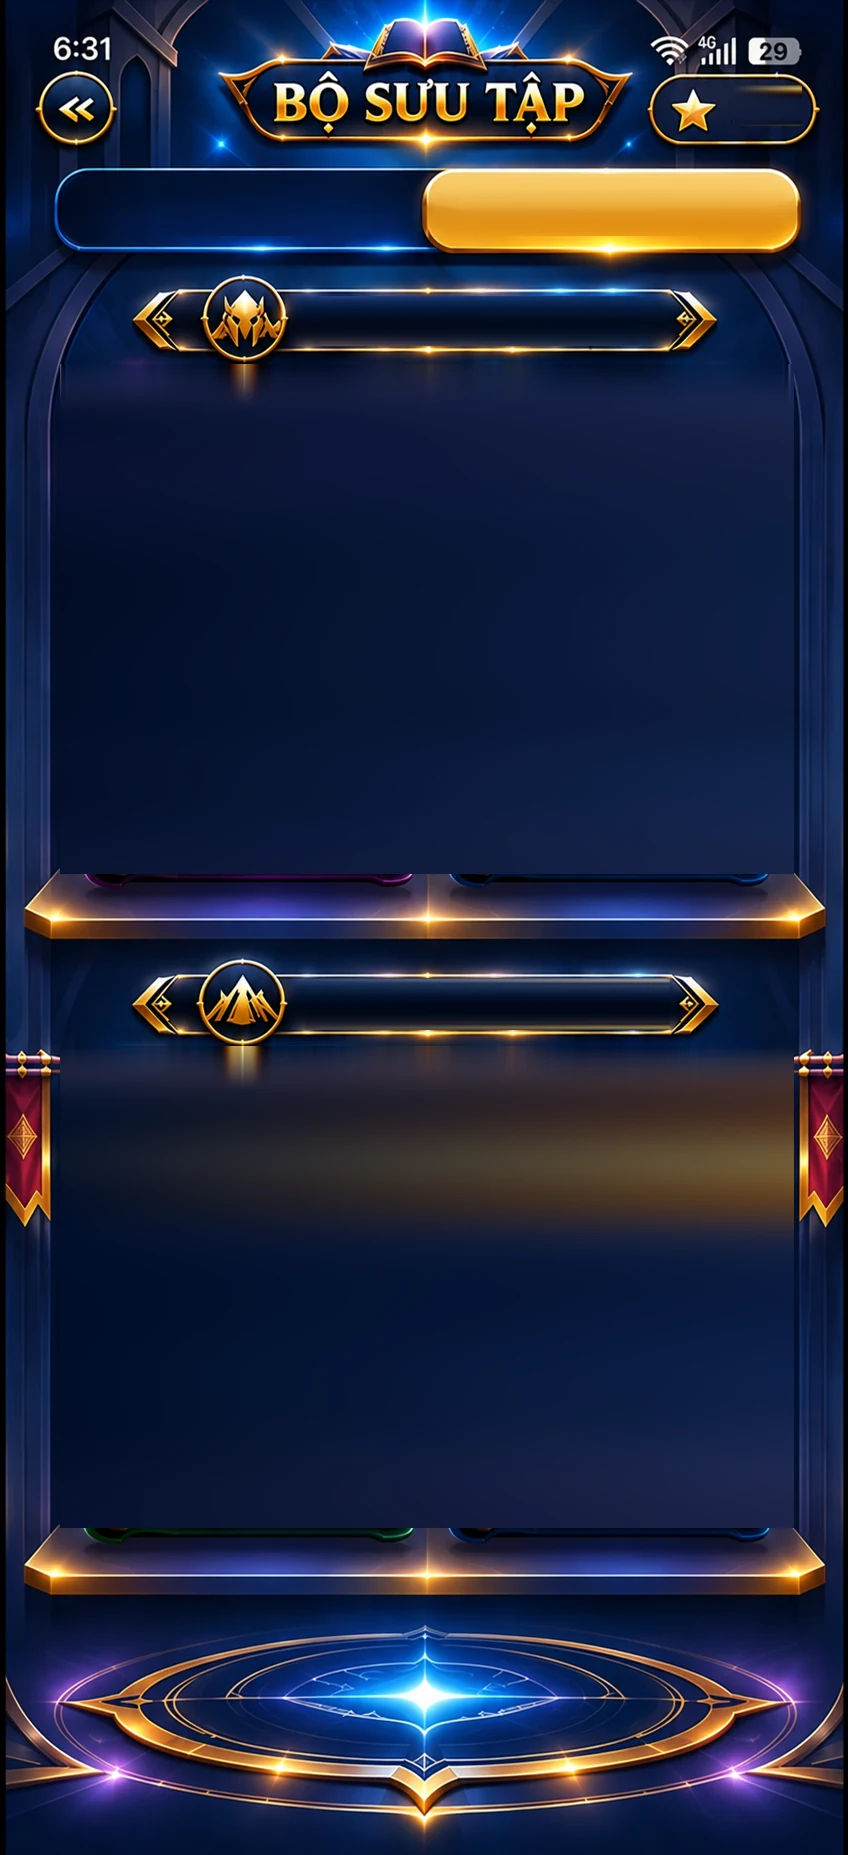
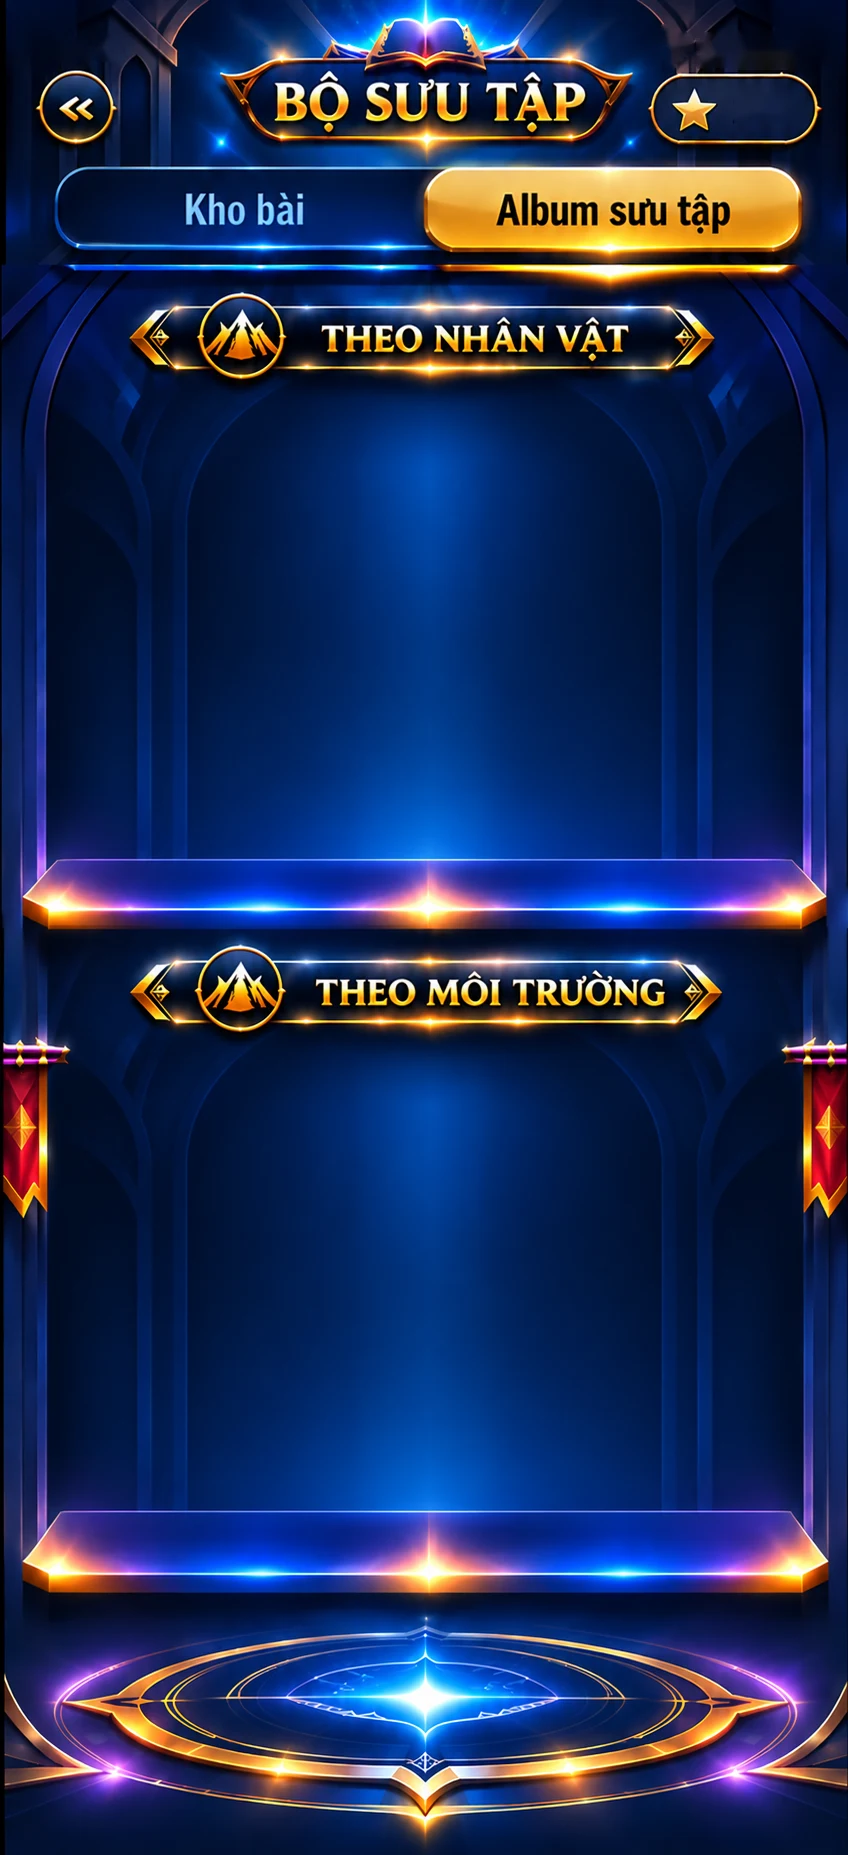
Bộ sưu tập: nền + sách mới, màn thấp, toàn màn hình, sửa hiệu ứng mở album, làm lại bên trong album
Claude-Session: https://claude.ai/code/session_01XgSG6cAiUtzcA5zv4TXjhN

diff --git a/src/styles.css b/src/styles.css
@@ -13263,7 +13263,16 @@ img, video, canvas, svg { -webkit-user-drag: none; user-drag: none; }
 
 /* ── Bộ sưu tập, giao diện mới (chủ game 08/11): cả trang là ảnh (nền, nút tròn, khung, sách) cắt từ bản thiết kế 848×1855;
    chữ và số do code vẽ lên đúng chỗ. Mọi toạ độ = % của trang, cỡ chữ = cqw. ── */
-.cx { container-type: inline-size; --cx-gold: #ffe7a3; }
+/* The page keeps the shape of the picture (848×1855) on any phone: a short screen shrinks the whole page, with the dark fill beside it. */
+.cx-fill { position: fixed; inset: 0; z-index: 0; background: #05071c; }
+.cx {
+  --cw: min(100vw, calc(100dvh * 848 / 1855));
+  inset: auto; left: calc((100vw - var(--cw)) / 2); top: calc((100dvh - var(--cw) * 1855 / 848) / 2);
+  width: var(--cw); height: calc(var(--cw) * 1855 / 848);
+  container-type: inline-size; --cx-gold: #ffe7a3;
+}
+.cx.is-album .cx-tabs button, .cx.is-album .cx-tabs button.on { color: transparent; text-shadow: none; }
+.cx.is-album .cx-wallet { top: 4.7%; }
 .cx.is-vault { background: url("/ui/col/bg-vault.webp") 0 0 / 100% 100% no-repeat, #05071c; }
 .cx.is-album { background: url("/ui/col/bg-album.webp") 0 0 / 100% 100% no-repeat, #05071c; }
 .cx-back { position: absolute; left: 4.4%; top: 3.3%; width: 9%; height: 4.2%; border-radius: 50%; }
@@ -13313,42 +13322,20 @@ img, video, canvas, svg { -webkit-user-drag: none; user-drag: none; }
 .cx .cv-tag { left: -0.4cqw; top: -0.9cqw; width: 9.2cqw; min-width: 0; height: 3.8cqw; padding: 0 0 0 1.5cqw; display: flex; align-items: center; font-size: 3.2cqw; }
 /* Album: các cuốn sách nằm trên kệ, cuộn ngang liên tục */
 .cx .al-shelf { position: absolute; inset: 0; padding: 0; overflow: visible; pointer-events: none; }
-.al-banner {
-  position: absolute; left: 32.9%; width: 47.2%; top: 15.42%; height: 3.88%; margin: 0;
-  display: flex; align-items: center; justify-content: center;
-  font: 700 3.9cqw / 1 "Cinzel", "Trajan Pro", "Times New Roman", serif; letter-spacing: 0.03em; text-transform: uppercase; color: var(--cx-gold);
-  text-shadow: 0 0.2cqw 0.4cqw rgba(0, 0, 0, 0.9), 0 0 1.2cqw rgba(255, 190, 70, 0.45);
-}
-.al-part.is-env .al-banner { left: 33.8%; top: 52.08%; }
+.al-banner { display: none; }
 .al-row {
-  position: absolute; left: 0; right: 0; top: 20.5%; height: calc(100cqw * 498 / 848);
+  position: absolute; left: 0; right: 0; top: 19.14%; height: calc(100cqw * 560 / 848);
   display: flex; align-items: flex-start; padding: 0 7.7cqw; overflow-x: auto; overflow-y: hidden; scrollbar-width: none; pointer-events: auto;
   overscroll-behavior-x: contain; -webkit-overflow-scrolling: touch;
 }
 .al-row::-webkit-scrollbar { display: none; }
-.al-part.is-env .al-row { top: 55.8%; }
-.cx .al-item { position: relative; flex: none; width: calc(100cqw * 366 / 848); margin-right: calc(100cqw * -3 / 848); padding: 0; gap: 0; display: block; }
+.al-part.is-env .al-row { top: 54.3%; }
+.cx .al-item { position: relative; flex: none; width: calc(100cqw * 350 / 848); padding: 0; gap: 0; display: block; opacity: var(--edge, 1); }
 .cx .al-item:active .al-cover { transform: none; }
-.cx .al-cover.is-book { width: 100%; aspect-ratio: 366 / 498; border-radius: 3cqw; background: none; box-shadow: none; transition: none; }
+.cx .al-cover.is-book { width: 100%; aspect-ratio: 400 / 640; border-radius: 0; background: none; box-shadow: none; }
 .cx .al-cover.is-book::before, .cx .al-cover.is-book::after { content: none; }
-.cx .al-cover.is-book.is-done { background: none; box-shadow: 0 0 5cqw rgba(255, 200, 80, 0.45); }
-.cx .al-cover-art {
-  position: absolute; inset: auto; left: 6.83%; top: 6.83%; width: 84.97%; height: 84.74%; border-radius: 0; box-shadow: none;
-  background: #0b0f1c center 30% / cover no-repeat;
-  -webkit-mask: url("/ui/col/book-win.webp") center / 100% 100% no-repeat; mask: url("/ui/col/book-win.webp") center / 100% 100% no-repeat;
-}
-.al-cover-plaque {
-  position: absolute; left: 24.04%; top: 70.28%; width: 67.76%; height: 12.85%;
-  background: linear-gradient(180deg, rgba(8, 16, 38, 0.86), rgba(3, 8, 22, 0.92));
-  clip-path: polygon(0 50%, 12.9% 0, 87.1% 0, 100% 50%, 87.1% 100%, 12.9% 100%);
-}
-.al-cover-book { position: absolute; inset: 0; width: 100%; height: 100%; mix-blend-mode: plus-lighter; pointer-events: none; }
-.al-cover-name {
-  position: absolute; left: 24.04%; top: 70.28%; width: 67.76%; height: 12.85%;
-  display: flex; align-items: center; justify-content: center; text-align: center; line-height: 1;
-  font: 700 var(--nm, 4.2cqw) / 1 "Be Vietnam Pro", system-ui, sans-serif; color: var(--cx-gold);
-  text-shadow: 0 0.2cqw 0.5cqw rgba(0, 0, 0, 0.9), 0 0 1cqw rgba(255, 190, 70, 0.4);
-}
+.cx .al-cover.is-book.is-done { background: none; box-shadow: none; filter: drop-shadow(0 0 2.6cqw rgba(255, 200, 80, 0.55)); }
+.al-cover-book { position: absolute; inset: 0; width: 100%; height: 100%; pointer-events: none; }
 .cx .al-new { right: 3%; top: 3%; width: 6cqw; height: 6cqw; font-size: 4cqw; box-shadow: 0 0 0 0.35cqw #fff, 0 0 2cqw rgba(255, 40, 40, 0.85); }
 .al-prog {
   position: absolute; left: 12%; width: 76%; bottom: 0.8%; height: 8.4%; display: flex; align-items: center; gap: 2.2%; padding: 0 5%;
@@ -13362,3 +13349,48 @@ img, video, canvas, svg { -webkit-user-drag: none; user-drag: none; }
 .al-prog u i { display: block; height: 100%; border-radius: inherit; background: linear-gradient(180deg, #ffe27a, #f3a31b); }
 .al-prog.is-done b { color: var(--cx-gold); }
 .al-item.is-soon { cursor: default; }
+
+/* ── Bên trong album (chủ game 08/11, theo ảnh album Yugi): nền xanh đậm, trang giấy da, lá khung vàng + bảng No.xxx, nút lật tròn viền vàng ── */
+.al-view::before {
+  background:
+    radial-gradient(100% 55% at 50% 38%, #12224f 0%, #0a1331 55%, #050a1c 100%);
+}
+.al-view .al-head h2 { font-family: "Cinzel", "Trajan Pro", "Times New Roman", serif; font-size: 1.7rem; letter-spacing: 0.02em; color: #ffd978; text-shadow: 0 0 0.7rem rgba(255, 190, 70, 0.4), 0 2px 5px rgba(0, 0, 0, 0.9); position: relative; padding-bottom: 0.35rem; }
+.al-view .al-head h2::after { content: ""; position: absolute; left: 0; bottom: 0; width: 7.5rem; height: 2px; background: linear-gradient(90deg, transparent, #f1c25a 20%, #ffe9a6 50%, #f1c25a 80%, transparent); border-radius: 2px; }
+.al-view .cv-back {
+  width: 2.9rem; height: 2.9rem; flex: none; border-radius: 50%; padding: 0; border: 0.14rem solid #e7b84e; color: #ffd978; font-weight: 800;
+  background: radial-gradient(circle at 40% 30%, #1d3270, #0a1536 75%); box-shadow: 0 0 0.9rem rgba(255, 190, 70, 0.45), inset 0 0 0.5rem rgba(0, 0, 0, 0.6);
+}
+.al-view .al-tally {
+  display: inline-flex; align-items: center; gap: 0.5rem; padding: 0.38rem 1.1rem; border-radius: 999px; border: 0.12rem solid #e7b84e;
+  background: linear-gradient(180deg, #0d1a45, #060d26); color: #fff; font: 800 1.15rem / 1 "Roboto", system-ui, sans-serif;
+  box-shadow: 0 0 0.8rem rgba(255, 190, 70, 0.35), inset 0 0 0.5rem rgba(0, 0, 0, 0.6);
+}
+.al-view .al-tally.is-done { color: #ffe9a6; }
+.al-view .al-tally svg { width: 1.15rem; height: 1.15rem; color: #e8f0ff; }
+.al-view .al-page {
+  border-radius: 1.2cqw 1.6cqw 1.6cqw 1.2cqw;
+  background:
+    radial-gradient(120% 90% at 50% 40%, rgba(255, 244, 214, 0.35), rgba(120, 80, 30, 0.22) 100%),
+    linear-gradient(165deg, #dcc08e 0%, #cfae78 55%, #bf9a62 100%);
+  box-shadow: 0 0 0 0.55cqw #4a3a22, 1.2cqw 0 0 0.55cqw #14234f, 1.2cqw 0 0 0.9cqw #c79b3c, 0 2.4cqw 6cqw rgba(0, 0, 0, 0.7), inset 0 0 5cqw rgba(110, 70, 20, 0.45);
+}
+.al-view .al-page::before { width: 4cqw; background: linear-gradient(90deg, rgba(60, 38, 12, 0.5), rgba(60, 38, 12, 0)); border-radius: 1.2cqw 0 0 1.2cqw; box-shadow: none; }
+.al-view .al-page::after { content: none; }
+.al-view .al-pockets { inset: 5cqw 3.2cqw 2.4cqw 3.6cqw; gap: 4.4cqw 2.2cqw; }
+.al-view .al-slot { background: none; box-shadow: none; }
+.al-view .al-slot::after { content: none; }
+.al-view .al-pocket.is-blank .al-slot { background: none; }
+.al-view .al-no {
+  margin: 0.9cqw 6% 0; padding: 0.9cqw 0; border-radius: 0.8cqw; border: 0.3cqw solid #b98a35;
+  background: linear-gradient(180deg, #14224d, #0a1230); box-shadow: 0 0 0 0.25cqw rgba(0, 0, 0, 0.55);
+  font-family: "Roboto Condensed", "Be Vietnam Pro", system-ui, sans-serif; font-size: 3.1cqw; font-weight: 800; letter-spacing: 0.02em; color: #f3dca0;
+}
+.al-view .al-pocket.is-missing .al-no { color: #c9bd9c; }
+.al-view .al-arrow { width: 3.3rem; height: 3.3rem; border: 0.14rem solid #e7b84e; background: radial-gradient(circle at 40% 30%, #1d3270, #0a1536 75%); box-shadow: 0 0 0.9rem rgba(255, 190, 70, 0.4), inset 0 0 0.5rem rgba(0, 0, 0, 0.6); }
+.al-view .al-arrow svg { stroke: #ffd978; }
+.al-view .al-dots i { background: #34456f; }
+.al-view .al-dots i.on { background: #ffc23a; box-shadow: 0 0 8px rgba(255, 190, 60, 0.8); }
+.al-view .al-book { width: min(100cqw, 100cqh * 0.58); aspect-ratio: 0.58; }
+.al-view .al-pockets { inset: 4.4cqw 3.4cqw 2cqw 4cqw; gap: 3.3cqw 2.2cqw; }
+.al-cover-book { object-fit: contain; }

diff --git a/src/components/collection/album-parts.tsx b/src/components/collection/album-parts.tsx
@@ -1,4 +1,4 @@
-import { useState, type CSSProperties, type Ref } from "react";
+import { useState, type Ref } from "react";
 import { AppraisePanel } from "@/components/collection/appraise-panel";
 import { canAppraise } from "@/lib/appraisal";
 import { artSrc, monsterCard, spellSrc } from "@/lib/catalog";
@@ -19,39 +19,23 @@ export function AlbumPic({ id, missing = false, vault = false }: { id: string; m
   );
 }
 
-/** The tone of a book's leather, by album (chủ game 08/11: one binder standard, recoloured per album). */
-const TONES: Record<string, string> = {
-  yugi: "purple",
-  "quai-thu": "blue",
-  nui: "blue",
-  "bong-toi": "violet",
-  "thao-nguyen": "olive",
-  "rung-ram": "green",
-  "dat-da": "brown",
-  "bien-sau": "steel",
-  "cu-dia-may-moc": "steel",
-  "thanh-dia-thien-su": "pearl",
-  "nui-dung-nham": "crimson",
-  phep: "violet",
-  "vuong-quoc": "purple",
-};
+/** The books drawn for the shelf (name on the plaque) and for opening (the same without the name); `soon` = no cards yet. */
+export const BOOKS = new Set(["nui", "bong-toi", "thao-nguyen", "rung-ram", "dat-da", "bien-sau", "cu-dia-may-moc", "thanh-dia-thien-su", "nui-dung-nham", "vuong-quoc", "phep", "yugi", "joey"]);
 
-/** What the book says on its plaque: the album's name (the main album of a character is "Album chính"). */
-export function albumTitle(id: string, name: string): string {
-  return id === "yugi" ? "Album chính" : name;
+/** What the book says on its plaque: the album's name. */
+export function albumTitle(_id: string, name: string): string {
+  return name;
 }
 
-/** An album's cover: a book (spine, gold corners, a plaque) with the album's picture in its window; golden glow once complete. */
-export function AlbumCover({ album, done, className = "", ref }: { album: Pick<Album, "id" | "name" | "cover">; done: boolean; className?: string; ref?: Ref<HTMLSpanElement> }) {
-  const tone = TONES[album.id] ?? "blue";
+/**
+ * An album's cover: one picture of a book (chủ game 08/11). On the shelf it carries its name; the one that flies and
+ * swings open (`clean`) is the same book without the name.
+ */
+export function AlbumCover({ album, done, clean = false, className = "", ref }: { album: Pick<Album, "id" | "name" | "cover">; done: boolean; clean?: boolean; className?: string; ref?: Ref<HTMLSpanElement> }) {
+  const src = BOOKS.has(album.id) ? `/ui/col/${clean ? "open" : "shelf"}/${album.id}.webp` : null;
   return (
     <span ref={ref} className={`al-cover is-book${done ? " is-done" : ""}${className ? ` ${className}` : ""}`}>
-      <span className="al-cover-art" style={{ backgroundImage: `url(${album.cover})` }} />
-      <i className="al-cover-plaque" aria-hidden="true" />
-      <img className="al-cover-book" src={`/ui/col/book-${tone}.webp`} alt="" draggable={false} />
-      <b className="al-cover-name" style={{ "--nm": `${Math.min(4.2, 36 / Math.max(8, tr(albumTitle(album.id, album.name)).length))}cqw` } as CSSProperties}>
-        {tr(albumTitle(album.id, album.name))}
-      </b>
+      {src ? <img className="al-cover-book" src={src} alt={tr(album.name)} draggable={false} /> : null}
     </span>
   );
 }

diff --git a/src/components/collection/album-shelf.tsx b/src/components/collection/album-shelf.tsx
@@ -1,4 +1,4 @@
-import { useMemo, useState } from "react";
+import { useLayoutEffect, useMemo, useRef, useState } from "react";
 import { AlbumBook } from "@/components/collection/album-book";
 import { AlbumCover, CardsIcon } from "@/components/collection/album-parts";
 import {
@@ -62,12 +62,42 @@ export function AlbumTab() {
     return stars;
   }
 
-  // "Quái thú" has only its cover for now (chủ game 08/11).
-  const soon: Album = { id: "quai-thu", name: "Quái thú", env: null, cover: "/art/mat-xanh-huy-diet.jpg", cards: [], group: "char" };
+  // Albums with no card yet show only their book (chủ game 08/11).
+  const soon = (id: string, name: string, group: "char" | "env"): Album => ({ id, name, env: null, cover: "", cards: [], group });
+  const byId = (id: string) => list.find((album) => album.id === id);
   const parts = [
-    { key: "char", title: "Theo nhân vật", group: [...list.filter((album) => album.group === "char"), soon] },
-    { key: "env", title: "Theo môi trường", group: list.filter((album) => album.group !== "char") },
+    {
+      key: "char",
+      title: "Theo nhân vật",
+      group: [byId("yugi"), byId("phep"), soon("joey", "Joey", "char")].filter((album): album is Album => !!album),
+    },
+    {
+      key: "env",
+      title: "Theo môi trường",
+      group: [...list.filter((album) => album.group !== "char" && album.id !== "phep"), soon("vuong-quoc", "Vương đô", "env")],
+    },
   ];
+
+  // Only two books are clear at a time; the next one fades in as the row slides, like the hand of cards in a match.
+  const rows = useRef<Record<string, HTMLDivElement | null>>({});
+  const fade = (row: HTMLDivElement | null) => {
+    if (!row) return;
+    const box = row.getBoundingClientRect();
+    const pad = parseFloat(getComputedStyle(row).paddingLeft) || 0;
+    const left = box.left + pad;
+    const right = box.right - pad;
+    row.querySelectorAll<HTMLElement>(".al-item").forEach((item) => {
+      const rect = item.getBoundingClientRect();
+      const over = Math.max(0, left - rect.left, rect.right - right);
+      item.style.setProperty("--edge", String(Math.max(0.3, 1 - over / (rect.width * 0.9))));
+    });
+  };
+  useLayoutEffect(() => {
+    const all = () => Object.values(rows.current).forEach(fade);
+    all();
+    window.addEventListener("resize", all);
+    return () => window.removeEventListener("resize", all);
+  });
 
   return (
     <>
@@ -75,7 +105,7 @@ export function AlbumTab() {
         {parts.map(({ key, title, group }) => (
           <section key={key} className={`al-part is-${key}`}>
             <h3 className="al-banner">{tr(title)}</h3>
-            <div className="al-row">
+            <div className="al-row" ref={(el) => { rows.current[key] = el; }} onScroll={(event) => fade(event.currentTarget)}>
               {group.map((album) => {
                 const total = album.cards.length;
                 const have = album.cards.filter((card) => owned.has(card.id)).length;

diff --git a/src/components/full-screen.tsx b/src/components/full-screen.tsx
@@ -1,17 +1,23 @@
 import { useEffect } from "react";
 
 /**
- * Toàn màn hình (chủ game 23/10): the installed app asks for fullscreen itself, since Android does not always hide its
- * bars on launch (the owner had to swipe a few times). Browsers only grant it on a touch, so every touch while not
- * fullscreen asks again, which also covers coming back from another app. A page open in a normal browser tab is left
- * alone.
+ * Takes the whole screen on a touch, since a browser only allows it from one (chủ game 08/11: "tự bung full màn hình khi
+ * vào game"). The installed app asks on every touch while it is out of full screen; in a plain browser tab it asks until
+ * it has worked once, so a player who leaves full screen on purpose is not pulled back.
  */
 export function FullScreen() {
   useEffect(() => {
     const installed = () => window.matchMedia("(display-mode: fullscreen), (display-mode: standalone)").matches;
+    let once = false;
     const ask = () => {
-      if (!installed() || document.fullscreenElement || !document.documentElement.requestFullscreen) return;
-      document.documentElement.requestFullscreen({ navigationUI: "hide" }).catch(() => {});
+      if (document.fullscreenElement || !document.documentElement.requestFullscreen) return;
+      if (!installed() && once) return;
+      document.documentElement
+        .requestFullscreen({ navigationUI: "hide" })
+        .then(() => {
+          once = true;
+        })
+        .catch(() => {});
     };
     window.addEventListener("pointerdown", ask, { passive: true });
     return () => window.removeEventListener("pointerdown", ask);

diff --git a/src/lib/updates.ts b/src/lib/updates.ts
@@ -944,6 +944,7 @@ export const PENDING_NOTES: string[] = [
   "Menu chính: icon Phần thưởng đổi sang hộp quà tím nơ đỏ mới.",
   "Nhạc trong trận: thêm bài Chiến binh card, thay phiên ngẫu nhiên với bài cũ (bài này không còn ở nhạc menu).",
   "Bộ sưu tập đổi giao diện mới. Kho bài có khung lá vàng. Album là các cuốn sách trên kệ, vuốt ngang để xem tiếp, kèm số lá đã có. Thêm Album chính và Quái thú (Quái thú chưa có lá).",
+  "Album sưu tập có nền mới, sách mới trên kệ (Yugi, Phép, Joey sắp có; Núi, Bóng tối, Thảo nguyên, Rừng rậm, Đất đá, Biển sâu, Cứ địa máy móc, Thánh địa, Dung nham, Vương đô sắp có), hai cuốn rõ, cuốn thứ ba mờ dần. Màn thấp thu cả trang cho vừa, vào game tự bung toàn màn hình khi chạm lần đầu, mở album có lại hiệu ứng bay và lật bìa, bên trong album làm lại trang giấy da.",
 ];
 
 function remarkOf(notes: string[]) {

diff --git a/src/components/collection/album-book.tsx b/src/components/collection/album-book.tsx
@@ -290,7 +290,7 @@ export function AlbumBook({
           <Chevron />
         </button>
       </footer>
-      {stage === "fly" || stage === "open" ? <AlbumCover ref={cover} album={album} done={done} className={`al-fly${stage === "open" ? " is-opening" : ""}`} /> : null}
+      {stage === "fly" || stage === "open" ? <AlbumCover ref={cover} album={album} done={done} clean className={`al-fly${stage === "open" ? " is-opening" : ""}`} /> : null}
       {panel ? (
         <SetPanel opened={panel} owned={owned} claimed={claimed} sets={sets} albums={albums} onView={setSheet} onAsk={setAsk} onClaim={claim} onClose={() => setPanel(null)} />
       ) : null}

diff --git a/src/routes/collection.tsx b/src/routes/collection.tsx
@@ -26,6 +26,8 @@ function CollectionPage() {
   });
 
   return (
+    <>
+    <div className="cx-fill" aria-hidden="true" />
     <main className={`cv cx is-${tab}`} {...swipe}>
       <GlyphDefs />
       <Link to="/" className="cx-back" aria-label={tr("Trở về")} />
@@ -42,5 +44,6 @@ function CollectionPage() {
       </nav>
       {booted ? tab === "vault" ? <CardVault /> : <AlbumTab /> : null}
     </main>
+    </>
   );
 }

diff --git a/TIEP-TUC.md b/TIEP-TUC.md
@@ -8,6 +8,7 @@ Phiên trước dừng ở đây (21/10, phiên sau Bộ sưu tập): làm theo 
 
 - Việc vừa làm: nhánh đã đưa lên `main` (b24a45f) rồi làm tiếp trên đó. Kho bài + Album vẽ lại theo 2 ảnh thiết kế dịu của chủ game (`056edec9` Kho bài, `3a84987a` Album, sách `422bc211` + `8f382ef9`).
 - Hiện trạng: nền, khung lá, 9 màu sách cắt từ ảnh, nằm ở `public/ui/col/` (nền sạch, khung lá + mặt nạ, `book-*.webp` là phần ánh sáng trừ nền, trộn `plus-lighter`). Chữ/số do code vẽ lên ảnh theo % trang 848×1855 (`.cx-*`, `.al-*` cuối styles.css). Album: 2 hàng sách cuộn ngang (nhân vật: Album chính = Yugi + Quái thú chỉ có bìa; môi trường), dải x/y dưới sách, "!" lá mới. Chụp 412×915 khớp ảnh; mở album vẫn chạy.
+- 08/11 (Sonnet 5.5 medium) T1–T6 ĐÃ LÀM, chờ chủ game xem: nền album mới (`bg-album.webp`, đã xoá đồng hồ + số sao in sẵn), sách mỗi album một ảnh (`public/ui/col/shelf/<id>.webp` có tên, `open/<id>.webp` không tên cho hiệu ứng mở; đen thành trong suốt), kệ Nhân vật = Yugi, Phép, Joey (sắp có), Môi trường = các album + Vương đô (sắp có); sách "Đất Hoang" nâu ở hàng nhân vật CHƯA dùng (trùng tên với Đất đá, chờ chủ game nói). Cuốn thứ 3 mờ theo `--edge` (album-shelf.tsx `fade`). Màn thấp: `.cx` co theo ảnh 848×1855 + `.cx-fill`. `FullScreen` xin toàn màn ở lần chạm đầu cả tab trình duyệt. T5 lỗi do `transition: none` của `.cx .al-cover.is-book` đè hiệu ứng `.al-fly`. Bên trong album: CSS cuối styles.css (`.al-view`, trang giấy da, bảng No.xxx, `.al-book` tỉ lệ 0,58).
 - Việc sắp làm: chờ chủ game xem ảnh. Chưa thử điện thoại thật, màn rất ngắn/rất dài (nền kéo 100% 100%), tiếng Anh (tên "Theo nhân vật/môi trường", "Sắp có" chưa dịch).
 
 ## Menu icon ảnh (chủ game 06/11, Sonnet 5.5 medium, nhánh `thietke`, CHƯA áp `main`)
